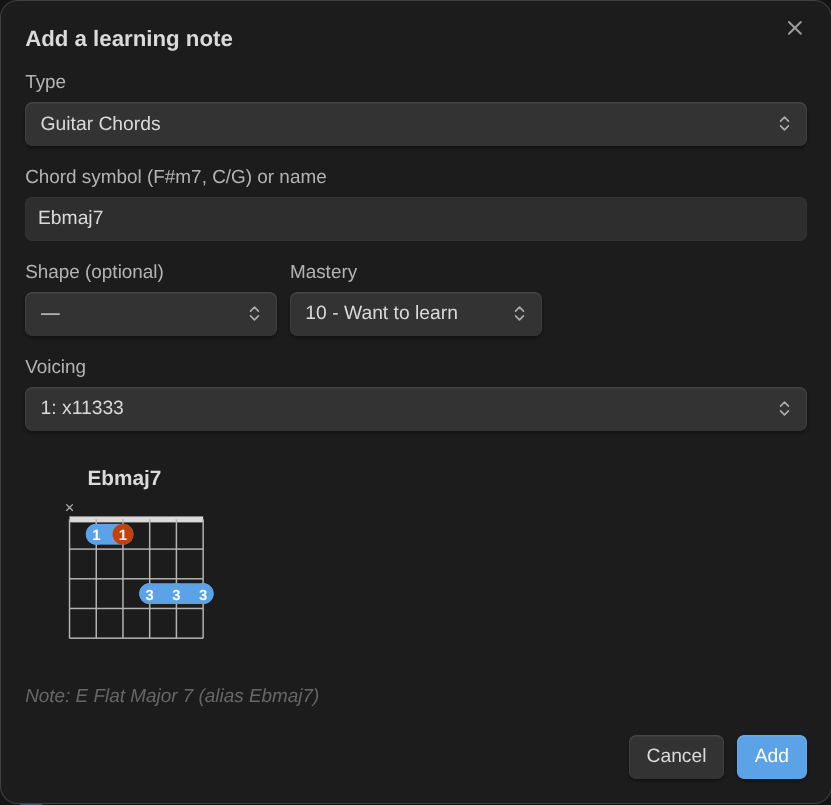
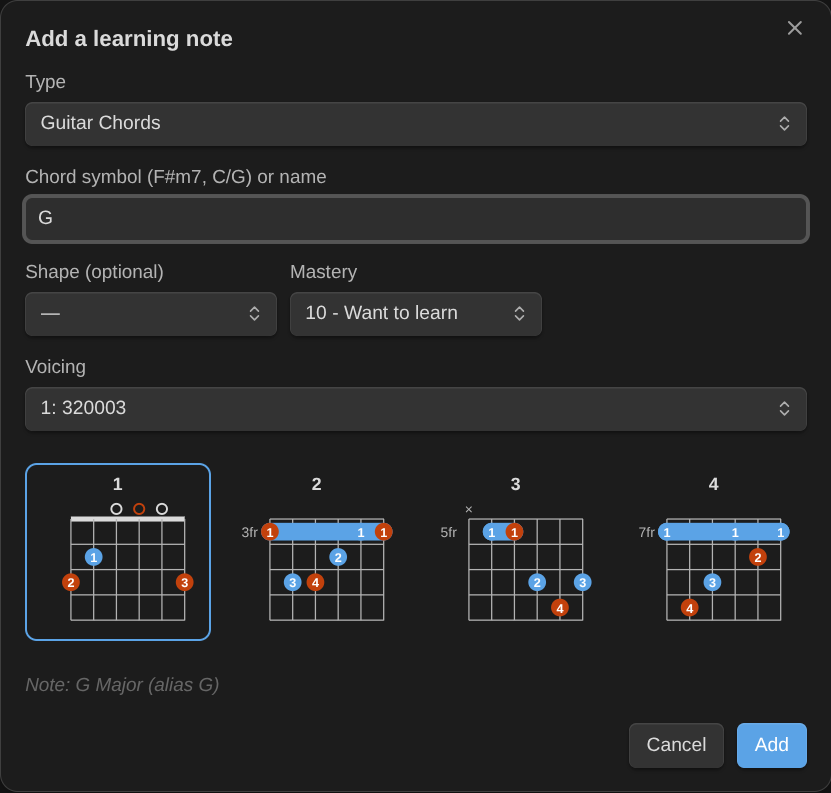
docs(plugin): several diagrams, orientation, left-handed and the v0.3 plan
Claude-Session: https://claude.ai/code/session_01Bpb5ZnaTwczMJLCaKgnkb2

diff --git a/docs/notation.md b/docs/notation.md
@@ -87,13 +87,39 @@ Songs in [ChordPro](https://www.chordpro.org/): chords in brackets inside the ly
 ```
 ````
 
+## Several diagrams
+
+Separate diagrams with a line of three dashes to draw them side by side: a song's chords, a progression, the positions of a scale.
+
+````markdown
+```chord
+G 320003 210003
+---
+C x32010 x32010
+---
+D xx0232 xx0132
+```
+````
+
+![Three chords in a row](images/notation-row.png)
+
+Settings shared by every diagram go first, before the first `---` (`orientation`, `hand`, `labels`, and `tuning` or `range`); `columns: 3` draws a grid. A mistake in one diagram doesn't hide the others. Works in `chord`, `keyboard` and `fretboard` blocks; chord charts keep `---` as text. See the library's [guide](https://dsebastien.github.io/music-notation/blocks.html#several-diagrams).
+
+## Orientation and left-handed diagrams
+
+Chord diagrams stand up by default (the nut on top); fretboards and keyboards lie down. `orientation: horizontal` or `orientation: vertical` in a block turns it; `hand: left` mirrors guitar chords and fretboards for left-handed players.
+
+![Left-handed chords, sideways, and a left-handed fretboard standing up](images/notation-left-handed.png)
+
+The defaults for every note are settings: **Left-handed**, and the orientation of chord diagrams, fretboards and keyboards (see [Configuration](configuration.md#notation-blocks)). A block's own `orientation` or `hand` wins over them.
+
 ## Mistakes
 
 A block with a mistake shows what's wrong and what to write instead. The note itself is never changed.
 
 ## New chord notes
 
-**Add a learning note** fills a new chord note: for guitar chords, pick one of the voicings found for the symbol (a preview shows it); the note gets its `frets` and `fingers` properties and a ` ```chord ` block. Piano chords get a ` ```chord ` block with `instrument: piano`. An empty ` ```chord ` block (as templates scaffold) draws nothing. See [Usage](usage.md#add-a-learning-note).
+**Add a learning note** fills a new chord note: for guitar chords, the four most common voicings are drawn side by side; click one to pick it (the dropdown lists them all, and "No diagram"). The note gets its `frets` and `fingers` properties and a ` ```chord ` block. Piano chords get a ` ```chord ` block with `instrument: piano`. An empty ` ```chord ` block (as templates scaffold) draws nothing. See [Usage](usage.md#add-a-learning-note).
 
 ## Turning blocks off
 

diff --git a/documentation/history/2026-10-28.md b/documentation/history/2026-10-28.md
@@ -75,3 +75,12 @@ community.obsidian.md review of 0.1.0: no failures; one Recommendation (vault en
 - Status row refreshed after a toggle (`update()`), external settings changes sync and redraw, toggles redraw open notes.
 - Docs: voicing count (about 1,800 by symbol), piano chord blocks, toggle descriptions; NEXT_RELEASE.md; tests for the notation service, boolean settings, the field clash, CRLF placement.
 - Re-verified in the vault: registry detection (Dataview's `dataview` seen as taken, no false "taken" on reload), all block types, empty block, `name: A` root marks, guitar/piano/power chord note creation (test notes trashed).
+
+## v0.3 layout (#32)
+
+- Directory review of 0.2.0: nothing new (build verification and vault enumeration as before). Screenshots added to the directory listing (5) and to the vault's public note.
+- Library 0.2 (music-notation#1, #2): several diagrams per block, orientation, left-handed. Tabs and scores move to plugin v0.4 (milestone renamed; new milestone "v0.3 Layout").
+- Settings: Left-handed, chord diagram / fretboard / keyboard orientation (`notationLayout`, `domain/notation-layout.ts`), passed to the library as render defaults; open notes redraw on change.
+- Add a learning note: the top 4 guitar voicings in a 4-column row (selected one outlined, click to pick, `aria-pressed`), previews follow the layout settings (`voicingRow` in `domain/notation-note.ts`).
+- Tested in the vault with the local library build on a throwaway note (rows, settings redraw: horizontal left-handed chords, vertical left-handed fretboard) and the modal (click picks voicing 3, dropdown follows); first version wrapped the 4 voicings onto two lines in the default orientation: now a grid. Screenshots: notation row, left-handed, add a chord.
+- Ideas filed as issues #36 to #51 (milestone Later): undo last log, practice sidebar, guided practice, metronome and speed trainer, chord change drills, piece sections, targets and deadlines, recorded takes, drills, starter packs, skill tree canvas, URI actions, mobile, tuner, translations, copy diagram as image.

diff --git a/README.md b/README.md
@@ -6,7 +6,7 @@ Every chord, scale, technique, exercise and piece you learn is a note with a mas
 
 I built this because I'm learning guitar and piano again, and I wanted my practice to live next to the rest of my notes, with a system that tells me what to work on instead of a pile of tabs.
 
-> **Version 0.1** ships the practice engine. Notation (chord diagrams, tabs and scores with playback) comes in 0.2. Follow progress in the [milestones](https://github.com/dsebastien/obsidian-music-practice/milestones) and [issues](https://github.com/dsebastien/obsidian-music-practice/issues).
+> **Version 0.3** ships the practice engine and notation blocks (chord diagrams, keyboards, fretboards, chord charts), side by side, in any orientation, left-handed too. Tabs and scores with playback come in 0.4. Follow progress in the [milestones](https://github.com/dsebastien/obsidian-music-practice/milestones) and [issues](https://github.com/dsebastien/obsidian-music-practice/issues).
 
 ## Screenshots
 
@@ -47,7 +47,15 @@ Add a chord from its symbol:
 
 ![Chord chart](docs/images/notation-chord-chart.png)
 
-### 0.3: tabs, scores and playback (planned)
+### 0.3: layout (available)
+
+- **Several diagrams in one block**, separated by `---`: a song's chords or a scale's positions side by side, or in a grid.
+- **Orientation**: guitar chords sideways, fretboards standing up, keyboards with low notes at the bottom. **Left-handed** diagrams. Defaults for both in the settings.
+- **Add a learning note** shows the top voicings of a guitar chord side by side: click one to pick it.
+
+![Chords side by side](docs/images/notation-row.png)
+
+### 0.4: tabs, scores and playback (planned)
 
 - Tabs and scores (alphaTex, via [alphaTab](https://alphatab.net)) with playback: play, slow down, loop, metronome.
 - Play chords, scales and notes from the notation blocks.

diff --git a/documentation/Business Rules.md b/documentation/Business Rules.md
@@ -90,3 +90,10 @@ This document defines the core business rules. These rules MUST be respected in 
 - A property name added in a newer version that an older data.json already uses for another property gets an `mp_` prefix.
 - New guitar chord notes: the chosen voicing goes to the frets and fingers properties (text; dashes when a fret has two digits) and a ``chord block with `symbol`, `frets`, `fingers` (and `position` only when it differs from the computed one). The block fills the template's empty ``chord block when there is one, else goes under the title. Piano chords get `symbol` + `instrument: piano`. "No diagram" adds neither.
 - Chord symbols are parsed by the library (one parser for notes and diagrams).
+
+## Layout (v0.3)
+
+- Layout settings (`notationLayout`): left-handed (off), chord diagrams vertical, fretboards and keyboards horizontal. They reach the library as render defaults (`orientation` per language, `hand: left` only when left-handed); a block's own `orientation` / `hand` wins. Piano chords follow the keyboard orientation (the library's rule).
+- An orientation in data.json that isn't `vertical` or `horizontal` falls back to the default; the settings dropdowns refuse anything else.
+- Changing a layout setting redraws open notes in reading view (as the block switches do); it never re-registers processors.
+- Add a learning note, guitar chords: the first 4 voicings are drawn side by side (titled 1 to 4), plus the selected one when it's further down the list; clicking one selects it and updates the dropdown. Previews use the layout settings. The note still gets one diagram (the selected voicing).

diff --git a/docs/configuration.md b/docs/configuration.md
@@ -20,6 +20,15 @@ Every rule the plugin applies is a setting, with defaults that work on install. 
 
 One switch per kind of [notation block](notation.md), all on by default: chord diagrams (` ```chord `), chord charts (` ```chords `), keyboards and fretboards. A block turned off shows as code; reload the plugin to let another plugin draw it. The status line says when another plugin already draws one of them.
 
+| Setting                   | Default    | What it does                                                                                        |
+| ------------------------- | ---------- | --------------------------------------------------------------------------------------------------- |
+| Left-handed               | Off        | Mirrors guitar chord diagrams and fretboards (the low string on the right). Keyboards don't change. |
+| Chord diagram orientation | Vertical   | Vertical: the nut on top. Horizontal: the strings across, the high string on top, as in tabs.       |
+| Fretboard orientation     | Horizontal | Horizontal: the high string on top. Vertical: the nut on top, as a chord diagram.                   |
+| Keyboard orientation      | Horizontal | Horizontal: low notes on the left. Vertical: low notes at the bottom. Piano chords follow it.       |
+
+A block's own `orientation:` or `hand:` wins over these. Open notes redraw when you change them.
+
 ## Rules
 
 | Group          | Settings (defaults)                                                                                                                                             |

diff --git a/docs/README.md b/docs/README.md
@@ -8,7 +8,7 @@ permalink: /
 
 Learn an instrument in Obsidian: log practice in under a minute, run a practice timer, get a plan for the time you have, and let spaced review tell you what's slipping. Guitar and piano first, any instrument after.
 
-> Version 0.2: the practice engine and notation blocks (chord diagrams, keyboards, fretboards, chord charts). Tabs and scores with playback come in 0.3.
+> Version 0.3: the practice engine and notation blocks (chord diagrams, keyboards, fretboards, chord charts), several per block, in any orientation, left-handed too. Tabs and scores with playback come in 0.4.
 
 ## Key features
 
@@ -19,11 +19,11 @@ Learn an instrument in Obsidian: log practice in under a minute, run a practice 
 - Mastery levels with a rubric, and a light spaced-review system.
 - Works with the Obsidian Starter Kit, or on its own.
 - Every rule is a setting, with sensible defaults.
-- [Notation blocks](notation.md): chord diagrams, keyboards, fretboards and chord charts from plain text.
+- [Notation blocks](notation.md): chord diagrams, keyboards, fretboards and chord charts from plain text, side by side, vertical or horizontal, left-handed.
 
 ![Practice plan](images/practice-plan.png)
 
-Tabs and scores with playback come in 0.3.
+Tabs and scores with playback come in 0.4.
 
 ## Install
 

diff --git a/docs/usage.md b/docs/usage.md
@@ -60,4 +60,4 @@ Pick the type (Guitar Chords, Piano Scales…), type a name, or a chord symbol f
 
 ![Add a guitar chord with its voicing](images/add-note-chord.png)
 
-For guitar chords, pick a **voicing** among those found for the symbol (the preview shows it, or choose "No diagram"): the note gets its `frets` and `fingers` and a ` ```chord ` block, in the template's empty chord block when it has one. Piano chords get a ` ```chord ` block with `instrument: piano`, drawn as a keyboard. Symbols the database has no voicing for (power chords such as `C5`) get no diagram; nothing is added when chord blocks are turned off. See [Notation](notation.md).
+For guitar chords, the four most common **voicings** are drawn side by side: click one to pick it, or choose any voicing (or "No diagram") from the dropdown. The previews follow your orientation and left-handed settings. The note gets its `frets` and `fingers` and a ` ```chord ` block, in the template's empty chord block when it has one. Piano chords get a ` ```chord ` block with `instrument: piano`, drawn as a keyboard. Symbols the database has no voicing for (power chords such as `C5`) get no diagram; nothing is added when chord blocks are turned off. See [Notation](notation.md).

diff --git a/documentation/plans/v0.3 Layout.md b/documentation/plans/v0.3 Layout.md
@@ -1,0 +1,11 @@
+# v0.3: layout
+
+Goal: the music notation library's layout options in the plugin (#32), through `@dsebastien/music-notation` 0.2 (several diagrams per block, orientation, left-handed diagrams). Tabs and scores move to v0.4.
+
+- Bump the library; notation blocks pass the plugin's defaults as render options.
+- Settings: Left-handed (off; guitar diagrams and fretboards), Chord diagram orientation (vertical), Fretboard orientation (horizontal), Keyboard orientation (horizontal). A change redraws open notes, as the block switches do.
+- Add a learning note (guitar chords): the top 4 voicings in a row, the selected one highlighted, click to pick; the voicing dropdown stays (keyboard use, voicings past the 4th). The note keeps one diagram.
+- Docs: Notation page (several diagrams, orientation, left-handed, screenshots), settings, README, release notes.
+- Tests for the settings mapping and the voicing row; checked in the vault on throwaway notes; adversarial review; release 0.3.0.
+
+Done: settings and render defaults, voicing row, docs and screenshots, tests, checked in the vault. Left: library 0.2.0 release and the exact dependency bump, adversarial review, release 0.3.0.

diff --git a/docs/release-notes.md b/docs/release-notes.md
@@ -1,5 +1,16 @@
 # Release Notes
 
+## 0.3.0 (2026-10-28)
+
+Diagrams side by side, sideways or mirrored.
+
+- **Several diagrams in one block**: separate them with `---` to draw a song's chords or a scale's positions in a row; `columns: 3` makes a grid.
+- **Orientation**: `orientation: horizontal` turns guitar chords sideways, `orientation: vertical` stands fretboards up and draws keyboards with their low notes at the bottom.
+- **Left-handed**: `hand: left` mirrors guitar chords and fretboards. A setting makes it the default everywhere, next to a default orientation for chord diagrams, fretboards and keyboards.
+- **Add a learning note** shows the four most common voicings of a guitar chord side by side: click one to pick it.
+
+Tabs and scores with playback, and playing chords and scales, come in 0.4.
+
 ## 0.2.0 (2026-10-28)
 
 Notation comes to Music Practice: chords, scales and songs drawn from plain text in your notes.
